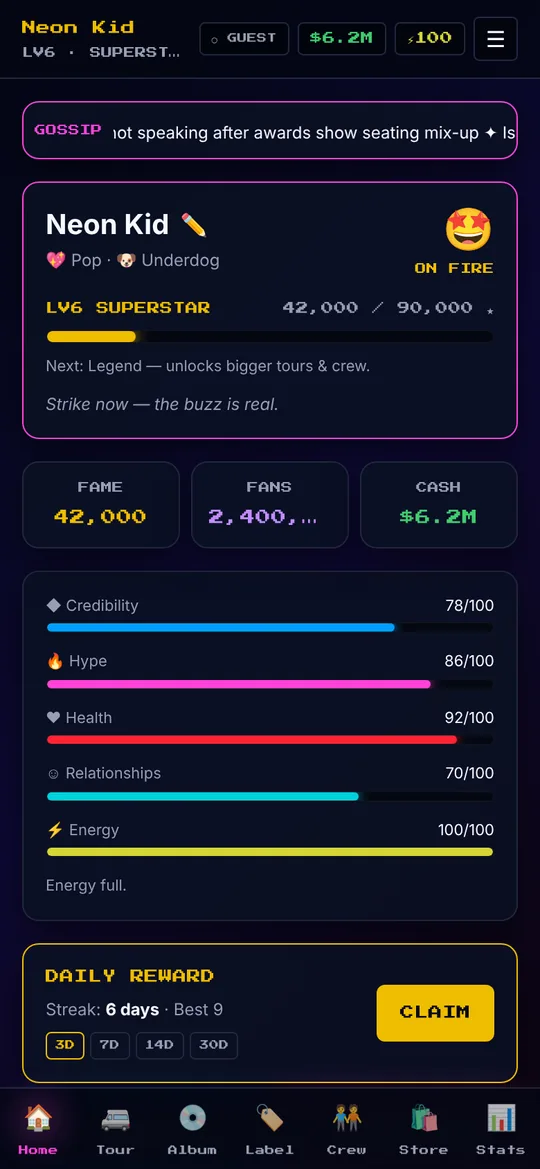
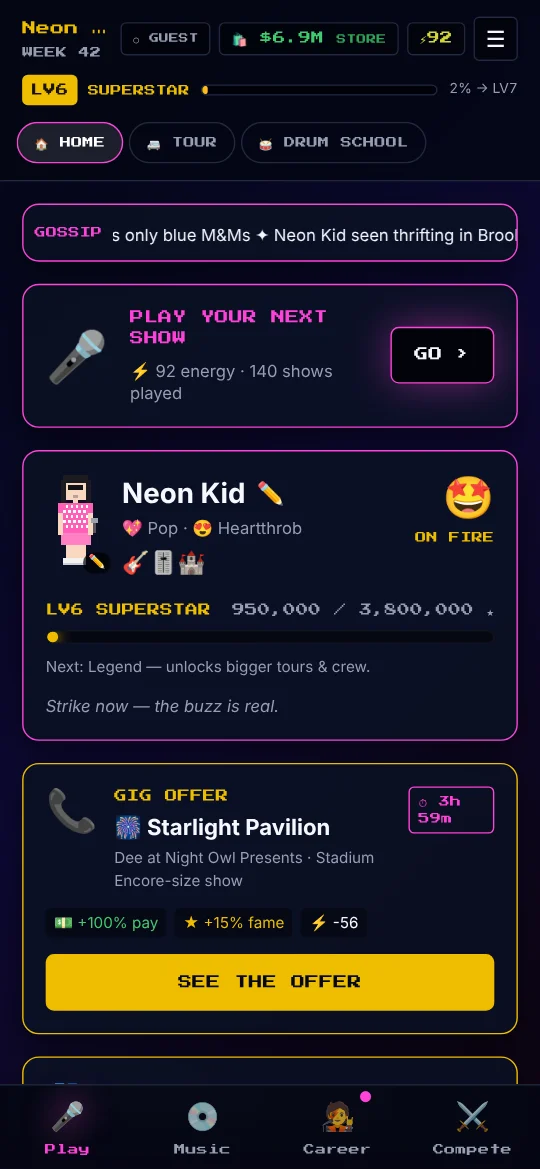
Homepage: match the current game (scenarios and raffles wording, leagues, level 1 venues), new 'More ways to play' section, fresh store screenshot with the new navigation
Claude-Session: https://claude.ai/code/session_01N1dxC7B5Px65uDJPJ5MAZj

Changed region(s): [[0.0296, 0.0, 0.9778, 1.0], [0.8, 0.4927, 0.9185, 0.5235], [0.9481, 0.3388, 0.9778, 0.3695]]

diff --git a/landing.html b/landing.html
@@ -116,7 +116,7 @@
         <h2 id="ladder-title" class="center">Seven levels. One shot at legend.</h2>
         <p class="center sub">Every release, every show, every scandal moves the needle. Fame unlocks bigger stages, bigger crowds and bigger risks.</p>
         <ol class="levels">
-          <li><span class="lv">LV1</span><b>Basement Act</b><span class="venue">🎙 Open mic · 40 fans</span></li>
+          <li><span class="lv">LV1</span><b>Basement Act</b><span class="venue">🎙 Open mics &amp; bar gigs · 150</span></li>
           <li><span class="lv">LV2</span><b>Local Buzz</b><span class="venue">🪩 Club tour · 800</span></li>
           <li><span class="lv">LV3</span><b>Opening Act</b><span class="venue">🎭 Theaters · 2,500</span></li>
           <li><span class="lv">LV4</span><b>Rising Star</b><span class="venue">🏟 Arenas · 18,000</span></li>
@@ -134,11 +134,28 @@
           <article><span class="ico">💿</span><h3>Write &amp; release</h3><p>Drop singles, EPs and albums. Every track is generated for you and lives in your locker.</p></article>
           <article><span class="ico">🏷</span><h3>Sign the deal</h3><p>Indie freedom or a major label's money? Every deal has a catch.</p></article>
           <article><span class="ico">🧑🤝🧑</span><h3>Build the crew</h3><p>Managers, stylists, a tour bus, lighting rigs and pyro. Spend wisely.</p></article>
-          <article><span class="ico">📰</span><h3>Survive the chaos</h3><p>Thousands of real-world scenarios: label feuds, viral moments, bad nights and worse decisions.</p></article>
-          <article><span class="ico">⚔</span><h3>Beat your rivals</h3><p>A weekly chart that resets every Monday. Start beefs, land collabs, climb the rankings.</p></article>
+          <article><span class="ico">📰</span><h3>Survive the chaos</h3><p>Scandals, viral moments, label feuds and bad nights, each with real consequences for your career.</p></article>
+          <article><span class="ico">⚔</span><h3>Climb the leagues</h3><p>Weekly leagues of about 30 real players. Finish near the top to move up a division; start beefs and land collabs along the way.</p></article>
           <article><span class="ico">🔥</span><h3>Keep the streak</h3><p>Daily rewards and streak bonuses for coming back to the grind.</p></article>
         </div>
       </section>
+
+      <!-- ============================================================ MORE WAYS TO PLAY -->
+      <section class="features reveal" aria-labelledby="more-title">
+        <p class="eyebrow center">EVERY DAY, SOMETHING NEW</p>
+        <h2 id="more-title" class="center">More ways to play.</h2>
+        <div class="grid">
+          <article><span class="ico">🥁</span><h3>Drum School</h3><p>Learn real grooves on a kick, snare and hi-hat. Every lesson you pass makes your shows better.</p></article>
+          <article><span class="ico">🧑🎤</span><h3>Make it your look</h3><p>Hair, outfits, instruments and artist packs. Real TourStar merch unlocks the matching in-game item.</p></article>
+          <article><span class="ico">🤝</span><h3>Friends &amp; festival bill</h3><p>Add friends with a code and share a weekly festival bill. See who brings the biggest crowd.</p></article>
+          <article><span class="ico">📞</span><h3>Gig offers &amp; tour events</h3><p>Promoters call with limited-time offers, and special tour events come and go with the seasons.</p></article>
+          <article><span class="ico">📰</span><h3>The Press &amp; Radio</h3><p>News stories and reviews about your career, plus TourStar Radio playing songs made by players.</p></article>
+          <article><span class="ico">🏅</span><h3>Hall of Fame</h3><p>Earn achievements, retire a Legend into the Hall of Fame and start your next career with a bonus.</p></article>
+          <article><span class="ico">✈</span><h3>Plays offline</h3><p>No signal? Shows, the studio and Drum School still work, and everything syncs when you're back.</p></article>
+          <article><span class="ico">💎</span><h3>VIP membership</h3><p>Faster energy, extra AI songs, monthly Gold and early presale codes. Optional, never required to win.</p></article>
+        </div>
+      </section>
+
 
       <!-- ============================================================ PRIZES -->
       <section id="prizes" class="prizes reveal" aria-labelledby="prizes-title">
@@ -148,8 +165,8 @@
             <h2 id="prizes-title">Fame in the game.<br /><span class="glow-gold">Prizes in real life.</span></h2>
             <p>Every show you play earns reward points. Spend them in the Please &amp; Thank You store on signed posters, records, tour merch and VIP experiences. Some rewards unlock only once you're a headliner.</p>
             <ul class="ticks">
-              <li><b>Weekly raffles</b> for the big stuff: VIP weekends, meet &amp; greets, front-row seats.</li>
-              <li><b>Earned, never bought.</b> Points come from playing, and every raffle has a free daily entry.</li>
+              <li><b>Raffles</b> for the big stuff, like VIP weekends, meet &amp; greets and front-row seats.</li>
+              <li><b>Earned, never bought.</b> Points come from playing. Money can't buy points or prizes.</li>
               <li><b>Fulfilled by Please &amp; Thank You</b>, the team behind VIP experiences for major touring artists.</li>
             </ul>
           </div>
